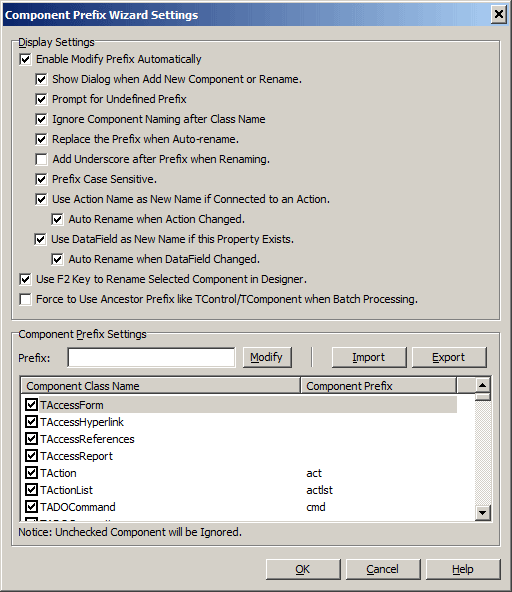
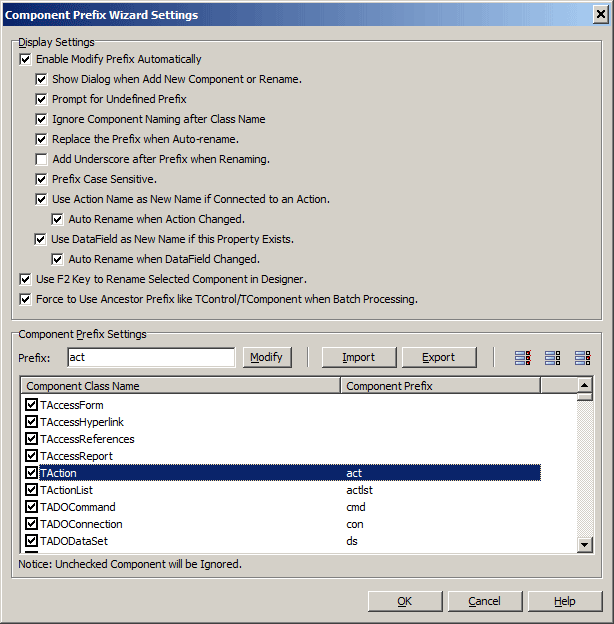
* [Prefix Wizard] Update Help.

diff --git a/Help/CnWizards_ENU/wizards/prefixwizard.htm b/Help/CnWizards_ENU/wizards/prefixwizard.htm
@@ -245,6 +245,15 @@ Settings dialog of this wizard is as below:</p>
       <li>
         <p class="text"><b>Export</b>: Export prefix rules to a file.</p>
       </li>
+      <li>
+        <p class="text"><b>Select All</b>: Check all items in prefix list.</p>
+      </li>
+      <li>
+        <p class="text"><b>Deselect All</b>: Uncheck all items in prefix list.</p>
+      </li>
+      <li>
+        <p class="text"><b>Inverse Selection</b>: Inverse check all items in prefix list.</p>
+      </li>
     </ul>
   </li>
   <li>
